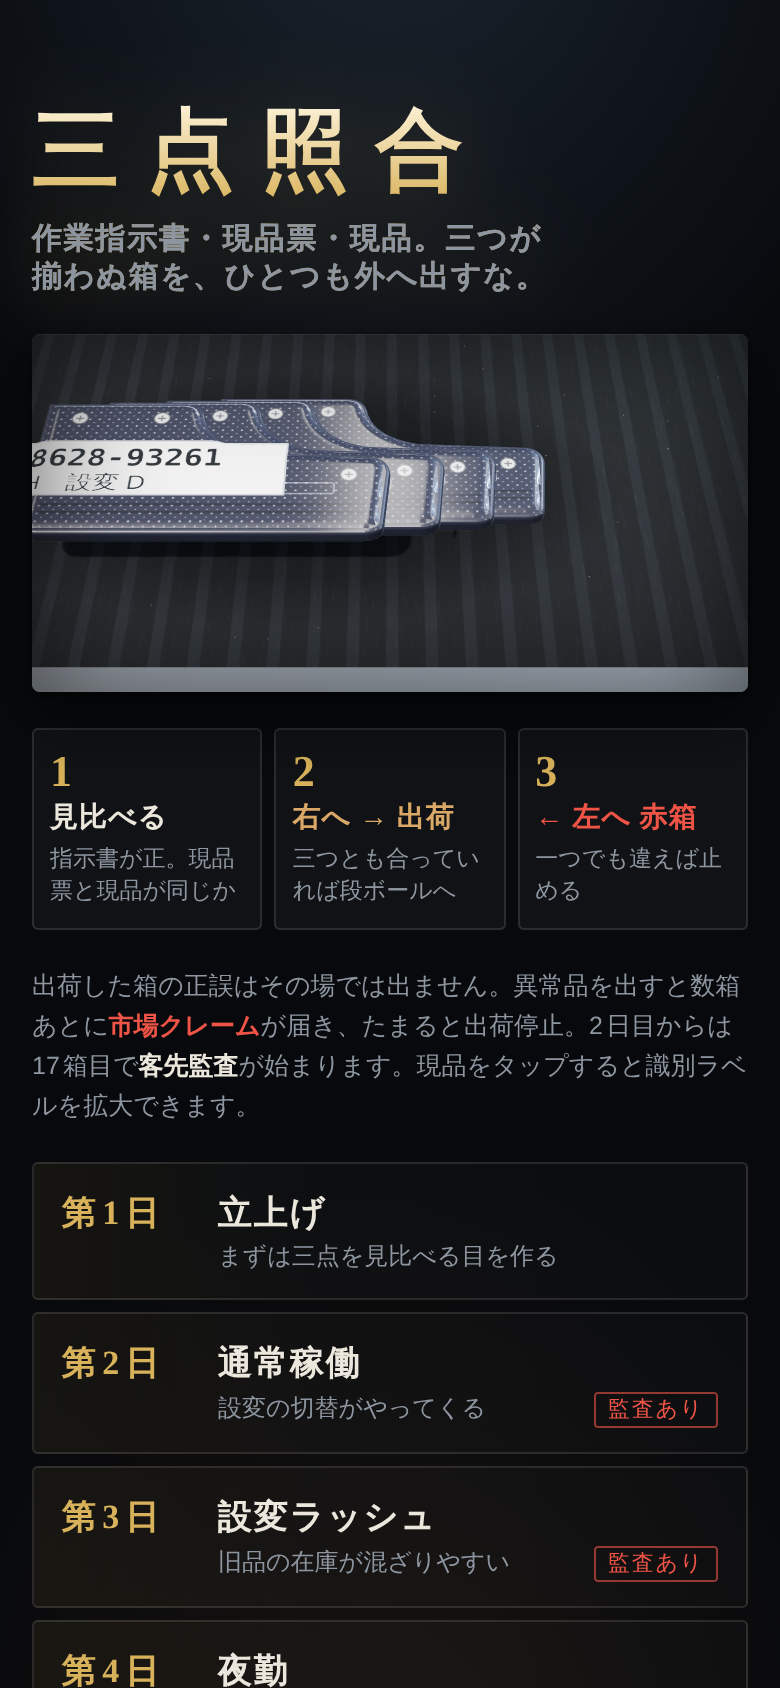
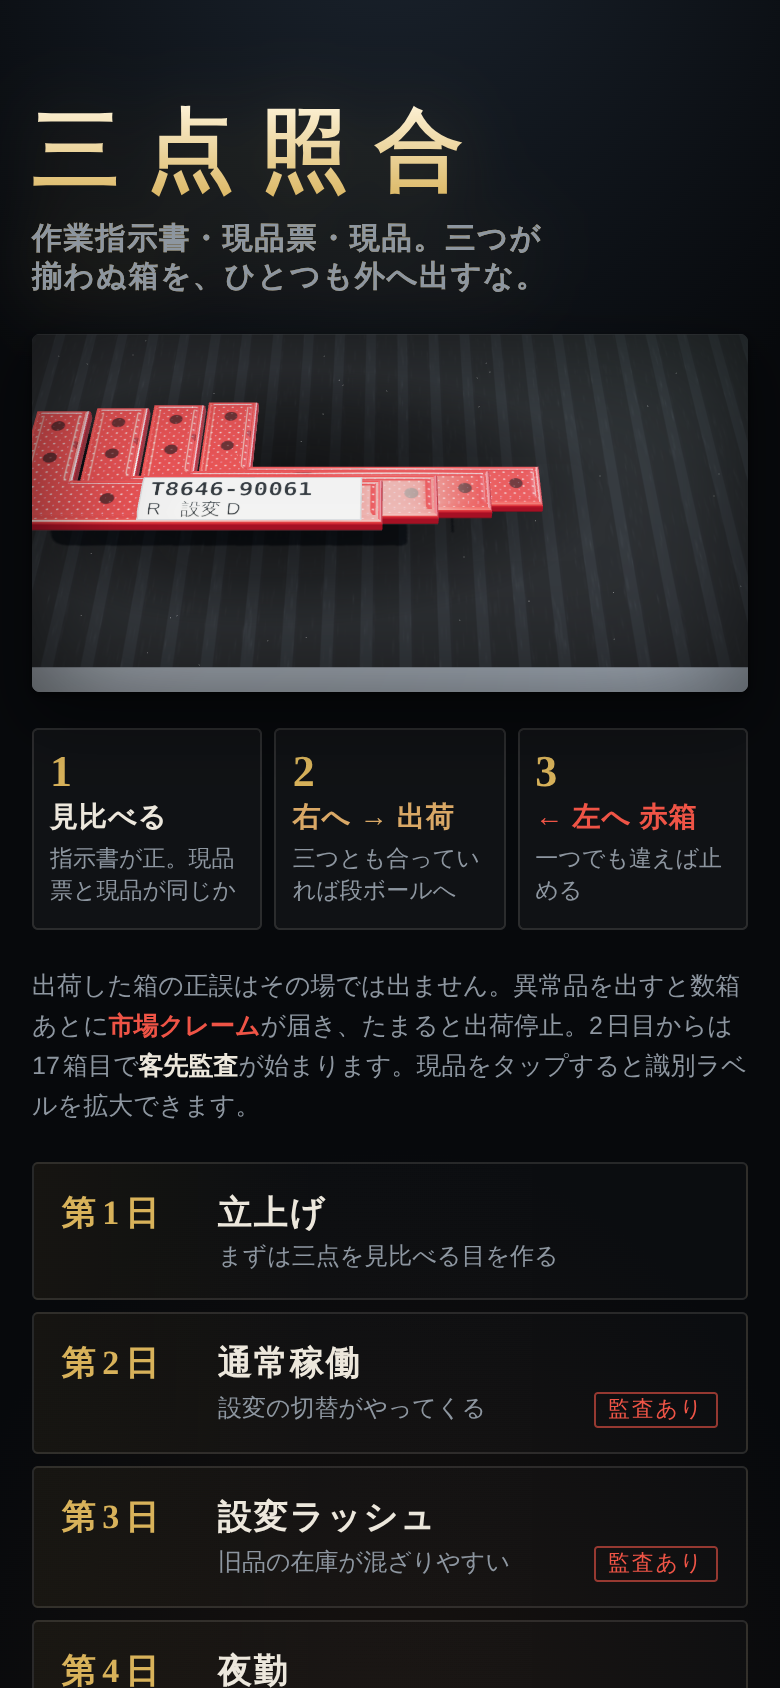
品物を車の部品から日用品・建材に入れ替え
インソール・レバーハンドル・棚受け金具（左右あり）、スマホケース・弁当箱・マグカップ。
左右の表記を R / L、色を一般的な名前（ホワイト・シルバー・チャコールラメなど）に変更。
README・スクリーンショット・og.png を更新。

Changed region(s): [[0.0308, 0.2156, 0.7077, 0.3389]]

diff --git a/index.html b/index.html
@@ -518,66 +518,61 @@ const DAYS = [
   { name: "客先監査週間", sub: "クレーム 2 件で出荷停止。監査員は本気", rate: .32, stageAt: [0, 2, 8], switch: true, startLvl: 2, claimMax: 2, boss: true, bossK: .95 },
 ];
 
-/* ====== 部品の絵（320×160、RH を基準に描き LH は左右反転） ====== */
+/* ====== 品物の絵（320×160、R を基準に描き L は左右反転） ====== */
 const RESIN = "#1c1e21";
 const STROKE = "rgba(0,0,0,.55)";
 const PARTS = [
-  { key: "fspoiler", name: "フロントスポイラー", brk: ["フロント", "スポイラー"], sided: false, qtys: [1], tag: [106, 66],
-    body: "M14 64 Q18 54 34 56 L120 62 Q160 64 200 62 L286 56 Q302 54 306 64 L300 94 Q296 104 280 106 L200 112 Q160 115 120 112 L40 106 Q24 104 20 94 Z",
+  { key: "insole", name: "インソール", brk: ["インソール"], sided: true, qtys: [2, 4], tag: [96, 56],
+    body: "M28 82 Q26 52 66 48 L150 42 Q220 28 272 36 Q308 44 308 74 Q308 104 278 112 Q240 120 200 106 Q160 94 120 104 L72 114 Q30 116 28 82 Z",
+    parts: () => {
+      let dots = "";
+      for (let x = 214; x <= 290; x += 13) for (let y = 52; y <= 96; y += 11) dots += `<circle cx="${x}" cy="${y}" r="2.2" fill="#000" fill-opacity=".28"/>`;
+      return `${dots}
+      <path d="M72 60 Q46 82 72 104" fill="none" stroke="#000" stroke-opacity=".25" stroke-width="3"/>
+      <path d="M60 52 Q140 40 268 40" fill="none" stroke="#fff" stroke-opacity=".45" stroke-width="2"/>`;
+    } },
+  { key: "lever", name: "レバーハンドル", brk: ["レバー", "ハンドル"], sided: true, qtys: [1, 2], tag: [128, 66],
+    body: "M40 80 Q40 44 76 44 Q100 44 108 60 L270 62 Q300 63 304 84 Q306 104 288 110 L282 96 Q280 86 266 86 L108 96 Q100 116 76 116 Q40 116 40 80 Z",
     parts: () => `
-      <path d="M24 100 Q40 106 120 112 Q160 115 200 112 Q280 106 296 100 L292 108 Q280 114 200 120 Q160 124 120 120 Q40 114 28 108 Z" fill="${RESIN}"/>
-      <path d="M40 76 L84 72 L82 96 L46 100 Z M280 76 L236 72 L238 96 L274 100 Z" fill="${RESIN}"/>
-      <path d="M48 82 L80 79 M48 89 L80 86 M272 82 L240 79 M272 89 L240 86" stroke="#4a4e54" stroke-width="2"/>
-      <rect x="136" y="92" width="48" height="14" rx="4" fill="${RESIN}"/>
-      <path d="M142 99 h36" stroke="#4a4e54" stroke-width="2"/>
-      <path d="M34 58 L120 64 Q160 66 200 64 L286 58" fill="none" stroke="#fff" stroke-opacity=".5" stroke-width="1.5"/>` },
-  { key: "skirt", name: "サイドスカート", brk: ["サイド", "スカート"], sided: true, qtys: [1], tag: [150, 60],
-    body: "M10 74 Q10 62 24 62 L284 52 Q300 50 308 60 L314 76 Q316 90 302 94 L44 108 Q18 110 12 96 Z",
+      <circle cx="76" cy="80" r="24" fill="none" stroke="#000" stroke-opacity=".3" stroke-width="2"/>
+      <circle cx="76" cy="80" r="9" fill="#000" fill-opacity=".25"/>
+      <circle cx="76" cy="53" r="3" fill="#000" fill-opacity=".5"/><circle cx="76" cy="107" r="3" fill="#000" fill-opacity=".5"/>
+      <path d="M112 66 L268 67 Q292 68 298 84" fill="none" stroke="#fff" stroke-opacity=".55" stroke-width="2"/>` },
+  { key: "bracket", name: "棚受け金具", brk: ["棚受け", "金具"], sided: true, qtys: [2, 4], tag: [150, 98],
+    body: "M40 24 L74 24 L74 94 L292 94 L292 128 L54 128 Q40 128 40 114 Z",
     parts: () => `
-      <path d="M16 98 Q22 106 44 104 L300 90 Q312 88 314 80 L314 88 Q314 98 300 100 L44 114 Q18 116 14 104 Z" fill="${RESIN}"/>
-      <path d="M28 84 L300 70" stroke="#fff" stroke-opacity=".35" stroke-width="1.5"/>
-      <path d="M28 87 L300 73" stroke="#000" stroke-opacity=".3" stroke-width="1.5"/>
-      <circle cx="40" cy="72" r="2.4" fill="#000" fill-opacity=".5"/><circle cx="110" cy="68" r="2.4" fill="#000" fill-opacity=".5"/>
-      <circle cx="290" cy="62" r="2.4" fill="#000" fill-opacity=".5"/>
-      <path d="M24 63 L284 53 Q298 51 306 60" fill="none" stroke="#fff" stroke-opacity=".5" stroke-width="1.5"/>` },
-  { key: "mirror", name: "ドアミラーカバー", brk: ["ドアミラー", "カバー"], sided: true, qtys: [2, 4], tag: [100, 64],
-    body: "M58 42 Q150 22 254 38 Q300 46 302 82 Q302 118 256 126 L96 132 Q50 132 40 104 Q32 62 58 42 Z",
+      <path d="M74 58 L160 94" stroke="#000" stroke-opacity=".3" stroke-width="7" stroke-linecap="round"/>
+      ${[[57, 40], [57, 72], [104, 111], [276, 111]].map(([x, y]) => `<circle cx="${x}" cy="${y}" r="5" fill="#000" fill-opacity=".6"/>`).join("")}
+      <path d="M42 26 L72 26 M76 96 L290 96" stroke="#fff" stroke-opacity=".45" stroke-width="2"/>` },
+  { key: "case", name: "スマホケース", brk: ["スマホ", "ケース"], sided: false, qtys: [1, 2], tag: [150, 90],
+    body: "M30 40 Q30 24 46 24 L274 24 Q290 24 290 40 L290 120 Q290 136 274 136 L46 136 Q30 136 30 120 Z",
     parts: () => `
-      <path d="M40 104 Q32 62 58 42 L66 48 Q42 66 50 102 Z" fill="${RESIN}"/>
-      <path d="M176 124 Q240 122 280 106 Q294 98 298 88 L302 94 Q300 118 258 128 Q220 134 176 132 Z" fill="url(#amber)" stroke="#000" stroke-opacity=".4"/>
-      <path d="M190 128 Q240 126 284 106" fill="none" stroke="#fff" stroke-opacity=".6" stroke-width="1"/>
-      <path d="M70 44 Q150 28 250 42 Q290 50 296 74" fill="none" stroke="#fff" stroke-opacity=".55" stroke-width="2"/>` },
-  { key: "mud", name: "マッドガード", brk: ["マッド", "ガード"], sided: true, qtys: [2, 4], tag: [62, 74],
-    body: "M40 20 L138 20 Q150 20 152 32 Q158 62 194 70 L274 74 Q288 74 288 88 L284 132 Q284 140 272 140 L52 140 Q40 140 40 128 Z",
+      <rect x="36" y="30" width="248" height="100" rx="12" fill="none" stroke="#000" stroke-opacity=".18" stroke-width="2"/>
+      <rect x="44" y="36" width="58" height="42" rx="11" fill="#000" fill-opacity=".22"/>
+      <circle cx="62" cy="51" r="8" fill="#111"/><circle cx="85" cy="63" r="8" fill="#111"/><circle cx="85" cy="45" r="3" fill="#ddd"/>
+      <rect x="190" y="24" width="40" height="4" fill="#000" fill-opacity=".3"/>` },
+  { key: "bento", name: "弁当箱", brk: ["弁当箱"], sided: false, qtys: [1, 2], tag: [106, 66],
+    body: "M40 36 Q40 26 56 26 L264 26 Q280 26 280 36 L280 60 L296 62 Q300 62 300 66 L300 94 Q300 98 296 98 L280 100 L280 124 Q280 134 264 134 L56 134 Q40 134 40 124 L40 100 L24 98 Q20 98 20 94 L20 66 Q20 62 24 62 L40 60 Z",
     parts: () => `
-      <path d="M50 120 L278 120 M50 127 L278 127" stroke="#000" stroke-opacity=".28" stroke-width="2"/>
-      <rect x="196" y="100" width="56" height="10" rx="2" fill="none" stroke="#fff" stroke-opacity=".35"/>
-      ${[[64, 36], [124, 36], [262, 92]].map(([x, y]) => `<circle cx="${x}" cy="${y}" r="5.5" fill="#c9cdd1" stroke="#555"/><path d="M${x - 3} ${y} h6 M${x} ${y - 3} v6" stroke="#555" stroke-width="1.4"/>`).join("")}
-      <path d="M44 22 L138 22 Q148 22 150 32" fill="none" stroke="#fff" stroke-opacity=".5" stroke-width="1.5"/>` },
-  { key: "arch", name: "フェンダーモール", brk: ["フェンダー", "モール"], sided: true, qtys: [2], tag: [150, 27],
-    body: "M20 136 Q24 40 140 22 Q248 10 304 70 L282 86 Q236 44 146 52 Q64 62 54 136 Z",
+      <rect x="52" y="38" width="216" height="84" rx="10" fill="none" stroke="#fff" stroke-opacity=".35" stroke-width="2"/>
+      <path d="M20 66 Q20 62 24 62 L40 60 L40 100 L24 98 Q20 98 20 94 Z M300 66 Q300 62 296 62 L280 60 L280 100 L296 98 Q300 98 300 94 Z" fill="${RESIN}" fill-opacity=".75"/>
+      <circle cx="248" cy="50" r="7" fill="#000" fill-opacity=".3"/>` },
+  { key: "mug", name: "マグカップ", brk: ["マグ", "カップ"], sided: false, qtys: [2, 4], tag: [86, 66],
+    body: "M70 30 L210 30 Q216 30 216 36 L216 52 Q252 50 256 80 Q252 110 216 108 L216 124 Q216 130 210 130 L70 130 Q64 130 64 124 L64 36 Q64 30 70 30 Z",
     parts: () => `
-      <path d="M54 136 Q64 62 146 52 Q236 44 282 86 L276 92 Q232 54 148 60 Q72 70 62 136 Z" fill="${RESIN}" fill-opacity=".85"/>
-      ${[[64, 104], [92, 72], [134, 58], [226, 58], [264, 76]].map(([x, y]) => `<rect x="${x - 4}" y="${y - 3}" width="8" height="6" rx="1" fill="#e9e6dc" stroke="#888" stroke-width=".6"/>`).join("")}
-      <path d="M26 132 Q30 46 140 26 Q246 14 300 70" fill="none" stroke="#fff" stroke-opacity=".5" stroke-width="1.5"/>` },
-  { key: "rspoiler", name: "リヤスポイラー", brk: ["リヤ", "スポイラー"], sided: false, qtys: [1], tag: [106, 54],
-    body: "M16 70 Q40 50 160 46 Q280 50 304 70 L300 96 Q160 88 20 96 Z",
-    parts: () => `
-      <path d="M66 94 L88 92 L92 124 L62 126 Z M232 92 L254 94 L258 126 L228 124 Z" fill="${RESIN}"/>
-      <rect x="58" y="124" width="38" height="5" rx="1" fill="#000" fill-opacity=".6"/><rect x="224" y="124" width="38" height="5" rx="1" fill="#000" fill-opacity=".6"/>
-      <path d="M118 88 Q160 85 202 88 L201 94 Q160 91 119 94 Z" fill="url(#redlens)" stroke="#000" stroke-opacity=".4"/>
-      <path d="M16 70 Q12 82 20 96 L28 95 Q22 82 26 66 Z M304 70 Q308 82 300 96 L292 95 Q298 82 294 66 Z" fill="${RESIN}"/>
-      <path d="M30 62 Q60 50 160 48 Q260 50 290 62" fill="none" stroke="#fff" stroke-opacity=".55" stroke-width="2"/>` },
+      <path d="M216 62 Q240 62 242 80 Q240 98 216 98 Z" fill="#000" fill-opacity=".55"/>
+      <path d="M74 34 L74 126" stroke="#000" stroke-opacity=".2" stroke-width="3"/>
+      <path d="M78 44 L208 44" stroke="#fff" stroke-opacity=".5" stroke-width="4" stroke-linecap="round"/>` },
 ];
 /* 色。pair は見間違えやすい相手 */
 const COLORS = [
-  { code: "070", name: "ホワイトパール", hex: "#eceee9", pair: "1F7" },
-  { code: "1F7", name: "シルバーメタリック", hex: "#b4b8bd", pair: "070" },
-  { code: "202", name: "ブラック", hex: "#1f2023", pair: "218" },
-  { code: "218", name: "ブラックマイカ", hex: "#272a38", pair: "202", mica: true },
-  { code: "1G3", name: "グレーメタリック", hex: "#6b7179" },
-  { code: "3R3", name: "レッドマイカ", hex: "#9b1e24", mica: true },
-  { code: "8W9", name: "ダークブルー", hex: "#24365c" },
+  { code: "W10", name: "ホワイト", hex: "#eceee9", pair: "S20" },
+  { code: "S20", name: "シルバー", hex: "#b4b8bd", pair: "W10" },
+  { code: "K30", name: "ブラック", hex: "#1f2023", pair: "K31" },
+  { code: "K31", name: "チャコールラメ", hex: "#272a38", pair: "K30", mica: true },
+  { code: "G40", name: "グレー", hex: "#6b7179" },
+  { code: "R50", name: "ワインレッド", hex: "#9b1e24", mica: true },
+  { code: "B60", name: "ネイビー", hex: "#24365c" },
 ];
 const byCode = c => COLORS.find(x => x.code === c);
 const REVS = ["A", "B", "C", "D", "E"];
@@ -606,9 +601,9 @@ const pick = a => a[rnd(a.length)];
 const digits = n => Array.from({ length: n }, () => rnd(10)).join("");
 const chance = p => Math.random() < p;
 
-/* 品番：英字1文字＋4桁-5桁。左右品は末尾 1=RH, 2=LH */
+/* 品番：英字1文字＋4桁-5桁。左右品は末尾 1=R, 2=L */
 function makePn(sided, side) {
-  return pick(["D", "M", "T"]) + digits(4) + "-" + digits(4) + (sided ? (side === "RH" ? "1" : "2") : "0");
+  return pick(["D", "M", "T"]) + digits(4) + "-" + digits(4) + (sided ? (side === "R" ? "1" : "2") : "0");
 }
 const flipSidePn = pn => pn.slice(0, -1) + (pn.endsWith("1") ? "2" : "1");
 function similarPn(pn) {
@@ -640,7 +635,7 @@ const stageOf = (i, day) => (day.boss && i >= BOSS_FROM) || i >= day.stageAt[2] 
    ・静かな区間：QUIET 箱続けて正常のあとに異常を1つ置く */
 function makeShift(day) {
   const mType = pick(PARTS.filter(p => p.sided && p.qtys.some(q => q > 1)));
-  const mSide = pick(["RH", "LH"]);
+  const mSide = pick(["R", "L"]);
   const oldRev = pick(REVS.slice(0, 4));
   const main = {
     type: mType, side: mSide, pn: makePn(true, mSide), color: pick(COLORS), qty: pick(mType.qtys),
@@ -683,7 +678,7 @@ function makeBox(i, wantDefect, isMain, main, switchAt, forceOld, day) {
       rev: i >= switchAt ? main.newRev : main.oldRev, main: true };
   } else {
     const type = pick(PARTS);
-    const side = type.sided ? pick(["RH", "LH"]) : null;
+    const side = type.sided ? pick(["R", "L"]) : null;
     truth = { type, side, pn: makePn(type.sided, side), color: pick(COLORS), rev: pick(REVS), qty: pick(type.qtys) };
   }
   const label = { ...truth };
@@ -699,7 +694,7 @@ function makeBox(i, wantDefect, isMain, main, switchAt, forceOld, day) {
     if (chance(0.5)) part.foreign = { ...pick(FOREIGN), at: [262, 114] };
     else {
       part.type = pick(PARTS.filter(p => p !== truth.type));
-      part.side = part.type.sided ? (truth.side || "RH") : null;
+      part.side = part.type.sided ? (truth.side || "R") : null;
       part.pn = makePn(part.type.sided, part.side);
     }
     box.defect = { where: "part", field: part.foreign ? "foreign" : "type" };
@@ -741,12 +736,12 @@ function makeBox(i, wantDefect, isMain, main, switchAt, forceOld, day) {
       if (odd) odd.color = c; else part.color = c;
     }
     if (f === "side") {
-      const s = truth.side === "RH" ? "LH" : "RH";
+      const s = truth.side === "R" ? "L" : "R";
       if (odd) odd.side = s; else { part.side = s; part.pn = flipSidePn(truth.pn); }
     }
     if (f === "type") {
       const ty = pick(PARTS.filter(p => p !== truth.type));
-      const sd = ty.sided ? (truth.side || pick(["RH", "LH"])) : null;
+      const sd = ty.sided ? (truth.side || pick(["R", "L"])) : null;
       if (odd) { odd.type = ty; odd.side = sd; }
       else { part.type = ty; part.side = sd; part.pn = makePn(ty.sided, sd); }
     }
@@ -879,7 +874,7 @@ function barcodeSvg(text) {
 
 /* 1個分の絵。(ox, oy) へ縮尺 s で置く */
 function pieceSvg(pc, ox, oy, s) {
-  const t = pc.type, flip = pc.side === "LH";
+  const t = pc.type, flip = pc.side === "L";
   return `<g transform="translate(${ox.toFixed(1)},${oy.toFixed(1)}) scale(${s})"><g transform="${flip ? "translate(320,0) scale(-1,1)" : ""}">
       <path d="${t.body}" transform="translate(4,7)" fill="#000" opacity=".3"/>
       <path d="${t.body}" fill="${pc.color.hex}" stroke="${STROKE}" stroke-width="${(1.5 / s).toFixed(2)}"/>
@@ -898,7 +893,7 @@ function partSvg(p) {
   for (let k = n - 1; k >= 0; k--) pieces += pieceSvg(p.pieces[k], ox0 + k * dx, oy0 + k * dy, s);
   const front = p.pieces[0];
   const [tx0, ty0] = front.type.tag;
-  const lx = front.side === "LH" ? 320 - tx0 - 108 : tx0;
+  const lx = front.side === "L" ? 320 - tx0 - 108 : tx0;
   const tagX = Math.max(2, Math.min(320 - 110, ox0 + lx * s + (108 * s - 108) / 2));
   const ty = Math.max(2, Math.min(160 - 30, oy0 + ty0 * s));
   const f = p.foreign;
@@ -937,14 +932,14 @@ function rowHtml(key, label, value, mono, extraCls = "", sub = "", ddCls = "") {
    fall() → Promise / reveal() / unmount() */
 const W = 3.2, H = 1.6;              // 部品1個の大きさ（ワールド座標。SVG の 320×160 を 1/100）
 /* 部品ごとのふくらみ：H＝高さ、R＝縁から平らになるまでの幅、C＝左右方向の反り */
-const TAG_S = { fspoiler: 0.9, skirt: 0.85, mirror: 1, mud: 1, arch: 0.72, rspoiler: 0.85 };
+const TAG_S = { insole: 0.9, lever: 0.7, bracket: 0.75, case: 1, bento: 1, mug: 0.65 };
 const DOME = {
-  fspoiler: { H: 0.06, R: 0.2, C: 0.04 },
-  skirt: { H: 0.07, R: 0.18 },
-  mirror: { H: 0.3, R: 0.7 },
-  mud: { H: 0.03, R: 0.08 },
-  arch: { H: 0.05, R: 0.12 },
-  rspoiler: { H: 0.07, R: 0.25, C: 0.03 },
+  insole: { H: 0.05, R: 0.25 },
+  lever: { H: 0.08, R: 0.1 },
+  bracket: { H: 0.02, R: 0.05 },
+  case: { H: 0.07, R: 0.14 },
+  bento: { H: 0.14, R: 0.32 },
+  mug: { H: 0.16, R: 0.45 },
 };
 const LAYOUT = [null, [1, 0, 0], [.8, 36, -16], [.72, 30, -13], [.66, 26, -11], [.6, 23, -10], [.56, 20, -9]];
 
@@ -1230,7 +1225,7 @@ const View3D = {
     this.night = !!opts.night; this.audit = !!opts.audit; this.demo = !!opts.demo;
     this.running = false; this.alarmUntil = 0;
     this.clearItems();
-    const metalish = c => ["1F7", "1G3", "218", "3R3", "8W9", "070"].includes(c.code);
+    const metalish = c => ["S20", "G40", "K31", "R50", "B60", "W10"].includes(c.code);
     const s = L.s;
     const env = this.night ? 0.12 : 1.15;
     let y = 0, front = null;
@@ -1248,7 +1243,7 @@ const View3D = {
       const dome = new T.Mesh(geo.dome, cap);
       for (const mm of [slab, dome]) { mm.castShadow = mm.receiveShadow = true; piece.add(mm); }
       piece.rotation.x = -Math.PI / 2;
-      piece.scale.set(pc.side === "LH" ? -s : s, s, s);
+      piece.scale.set(pc.side === "L" ? -s : s, s, s);
       const cx = L.ox0 + k * L.dx + 160 * s, cy = L.oy0 + k * L.dy + 80 * s;
       piece.position.set((cx - 160) / 100, y, (cy - 80) / 100);
       y += (geo.top + 0.03) * s;
@@ -1259,7 +1254,7 @@ const View3D = {
     // 識別ラベル：手前の1個の曲面に沿わせて貼る（文字は反転させない）
     const [tx0, ty0] = front.pc.type.tag;
     const cxL = (tx0 + 54 - 160) / 100, cyL = (80 - (ty0 + 14)) / 100;
-    const flipT = front.pc.side === "LH";
+    const flipT = front.pc.side === "L";
     const ts = TAG_S[front.pc.type.key] || 1;
     const tg = new T.PlaneGeometry(1.35 * ts / s, 0.35 * ts / s, 36, 12);
     const tp = tg.attributes.position;

diff --git a/README.md b/README.md
@@ -17,7 +17,7 @@
 <tr>
 <td align="center"><img src="docs/screenshots/01-title.png" width="200" alt="タイトル画面"><br>7日間を順に解放</td>
 <td align="center"><img src="docs/screenshots/02-play.png" width="200" alt="指示書・現品票・現品"><br>指示書と現品票の行は横一列</td>
-<td align="center"><img src="docs/screenshots/03-catch.png" width="200" alt="サイドスカート（LH）"><br>左右は品番の末尾でも見分ける</td>
+<td align="center"><img src="docs/screenshots/03-catch.png" width="200" alt="マグカップ4個入り"><br>個数も見比べる（4個入り）</td>
 </tr>
 <tr>
 <td align="center"><img src="docs/screenshots/04-audit.png" width="200" alt="客先監査"><br>17箱目からは客先監査</td>
@@ -31,6 +31,8 @@
 1. **見比べる。** 指示書が正です。現品票（箱のラベル）と現品が、指示書と同じかを確かめます
 2. **合っていれば、右へはじいて出荷。** 現品が段ボールに入ります
 3. **一つでも違えば、左へはじいて赤箱。** 品番・色・設変・数量・左右、異品や異物の混入も
+
+流れてくる品物は、インソール・レバーハンドル・棚受け金具・スマホケース・弁当箱・マグカップの6種類です。左右のある品（インソール・レバーハンドル・棚受け金具）は、L品とR品の取り違えにも注意します。
 
 現品はコンベアで流れてきます。右端まで流れるとライン停止です。続けて判定するとライン速度と得点の倍率が上がります。
 
@@ -66,11 +68,11 @@
 ## 💡 コツ
 
 - **行を横に見る。** 指示書と現品票の同じ項目は、画面上で同じ高さに並んでいます
-- **品番の最後の1桁を見る。** 下線の数字は左右（1＝RH、2＝LH）です
+- **品番の最後の1桁を見る。** 下線の数字は左右（1＝R、2＝L）です
 - **個数を数える。** 2個以上入りの箱は、奥の1個だけ違うことがあります
 - **異常が来ない時間ほど気をつける。** 正常が長く続いたあとに来ます
 - **班長の連絡を覚えておく。** 設変が切り替わったあと、旧品が流れてきます
-- **似た色に注意。** ホワイトパールとシルバー、ブラックとブラックマイカ
+- **似た色に注意。** ホワイトとシルバー、ブラックとチャコールラメ
 
 ## ❓ よくある質問
 
